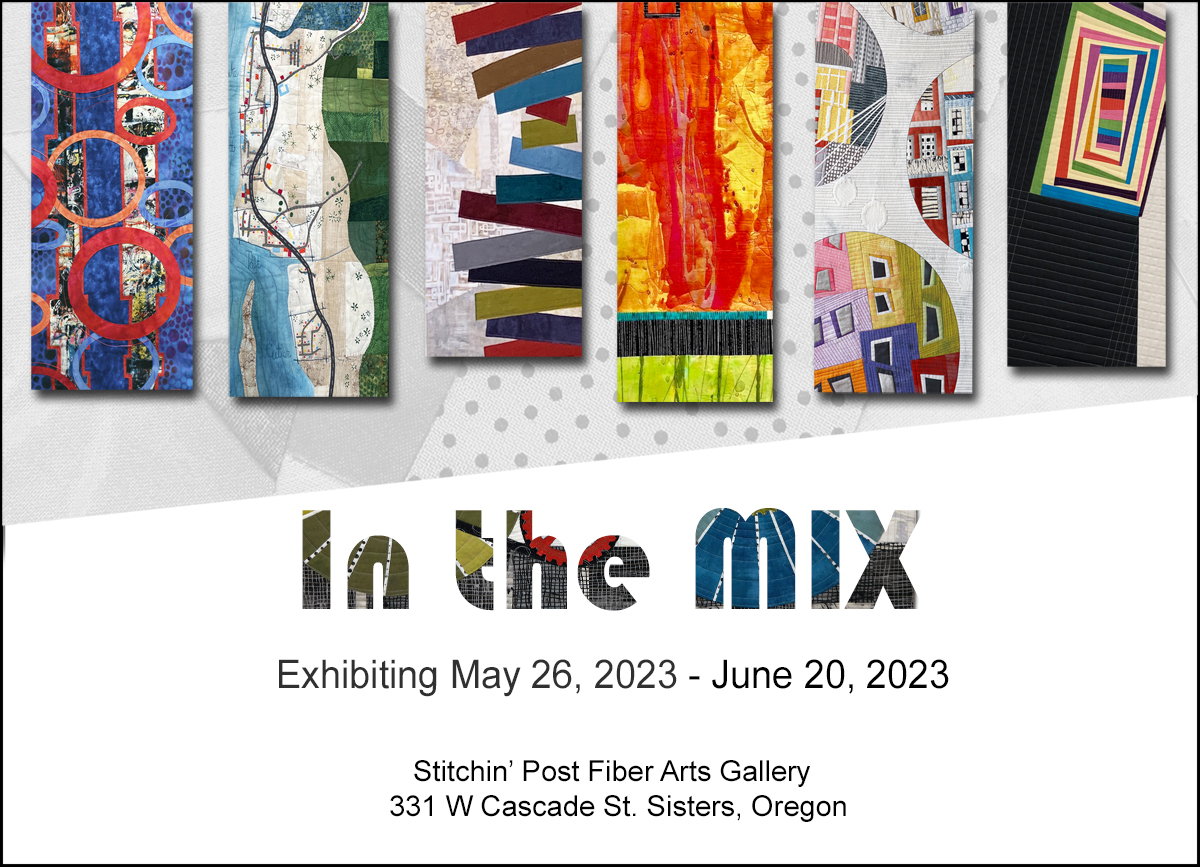
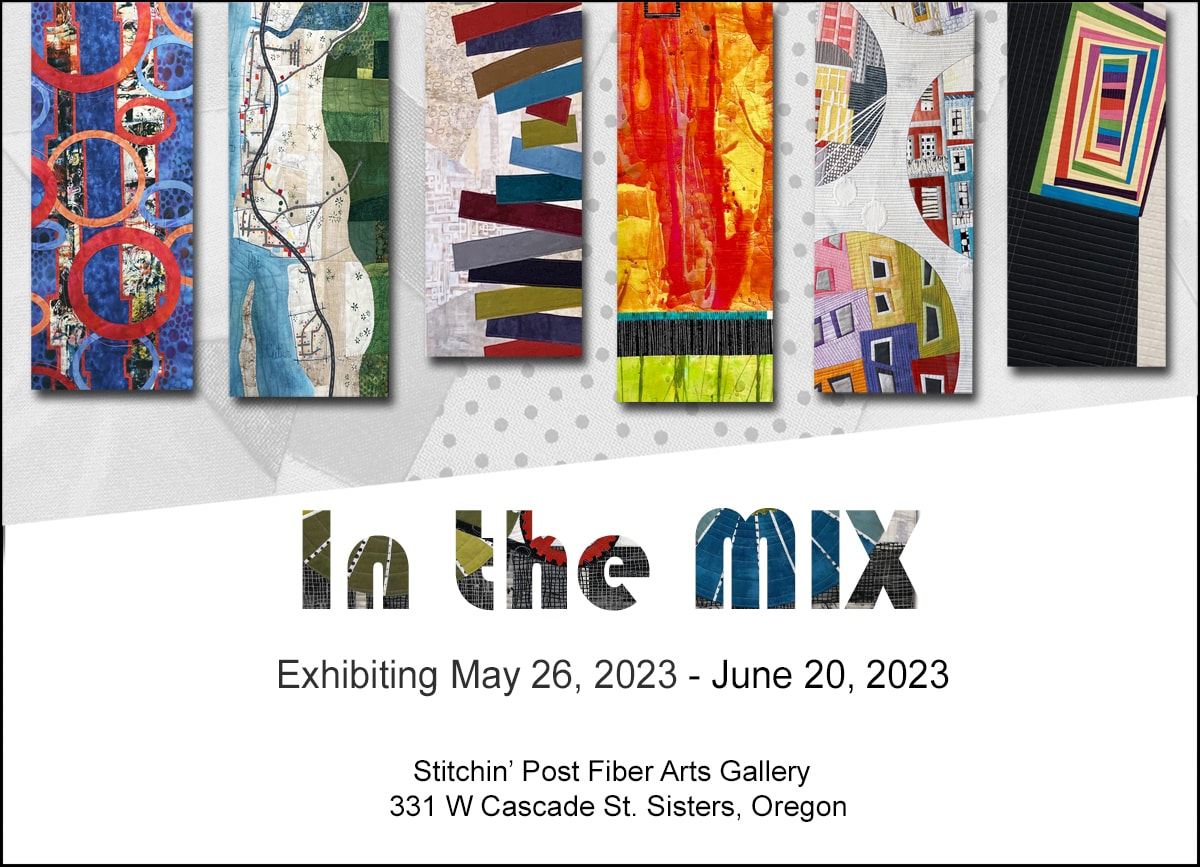
Fix image

diff --git a/content/calendar/_index.md b/content/calendar/_index.md
@@ -7,14 +7,14 @@ teachingschedule:
     classcontactlink: https://www.hildemorin.com/#contact
     classcontactname: Hilde Morin
     classdetails: |-
-      Studio Class 
+      Studio Class
 
       Portland, OR
   - date: April 10-11, 2023 <br>
     classnamekey: curves
     classname: Curves & More
     classdetails: |-
-      Studio Class 
+      Studio Class
 
       Portland, OR
     classcontactlink: https://www.hildemorin.com/#contact
@@ -33,7 +33,7 @@ teachingschedule:
     classnamekey: curves
     classname: Curves & More
     classdetails: |-
-      Studio Class 
+      Studio Class
 
       Portland, OR
     classcontactlink: https://www.hildemorin.com/#contact
@@ -42,7 +42,7 @@ teachingschedule:
     classnamekey: cityscape
     classname: In and Around Town
     classdetails: |-
-      Studio Class 
+      Studio Class
 
       Portland, OR
     classcontactlink: https://www.hildemorin.com/#contact
@@ -51,7 +51,7 @@ teachingschedule:
     classnamekey: yourownforest
     classname: Your Own Forest
     classdetails: |-
-      Studio Class 
+      Studio Class
 
       Portland, OR
     classcontactlink: https://www.hildemorin.com/#contact
@@ -60,7 +60,7 @@ teachingschedule:
     classnamekey: cityscape
     classname: In and Around Town
     classdetails: |-
-      Studio Class 
+      Studio Class
 
       Portland, OR
     classcontactlink: https://www.hildemorin.com/#contact
@@ -69,7 +69,7 @@ teachingschedule:
     classnamekey: yourownforest
     classname: Your Own Forest
     classdetails: |-
-      Studio Class 
+      Studio Class
 
       Portland, OR
     classcontactlink: https://www.hildemorin.com/#contact
@@ -78,15 +78,14 @@ teachingschedule:
     classnamekey: yourownforest
     classname: Your Own Forest
     classdetails: |-
-      Studio Class 
+      Studio Class
 
       Portland, OR
     classcontactlink: https://www.hildemorin.com/#contact
     classcontactname: Hilde Morin
 exhibits:
   - exhibitname: IN THE MIX
-    exhibitinfo: '![](/images/uploads/2023-mix-stitchin-post-card-web.jpg "IN THE
-      MIX - Group Exhibit ")'
+    exhibitinfo: <img src="/images/uploads/2023-mix-stitchin-post-card-web.jpg" title="IN THE MIX - Group Exhibit " width="100%">
     exhibitlink: https://mixpdx.blogspot.com/
   - exhibitlink: https://www.sitkacenter.org/event/sitka-art-invitational
     exhibitname: "2023 Sitka Art Invitational "
